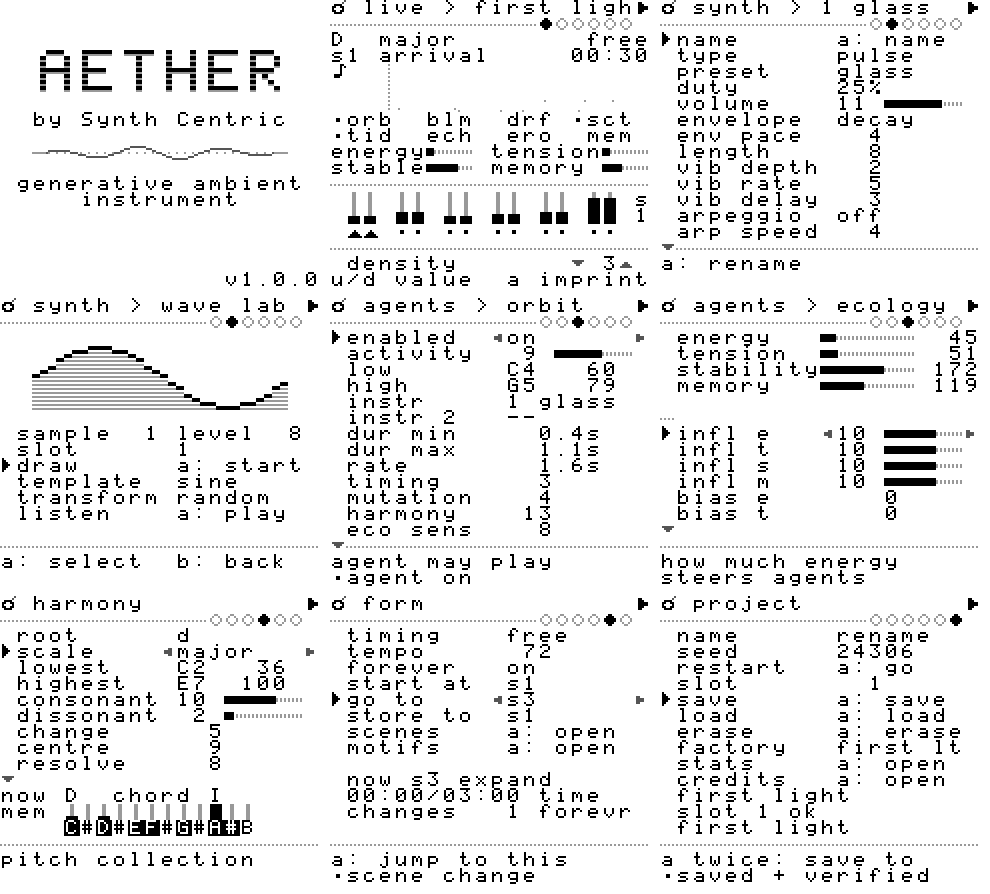
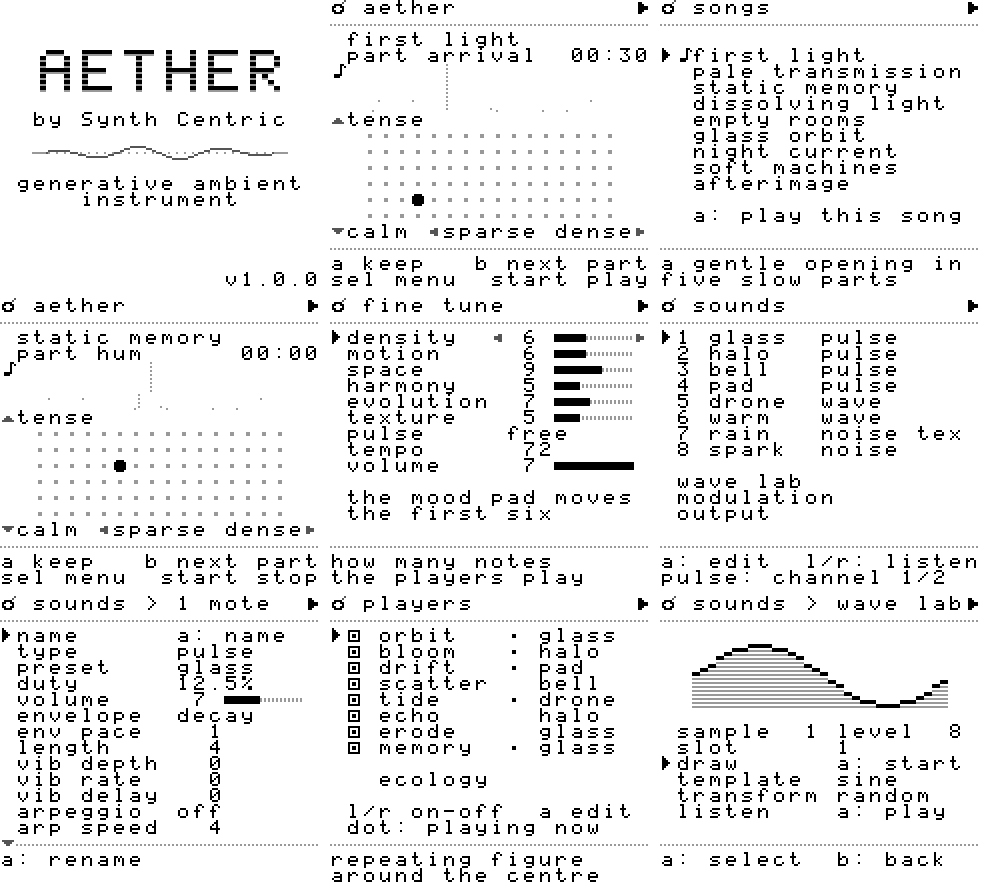
Emulator report and screenshots for the new interface
Claude-Session: https://claude.ai/code/session_01P79eML919qqdJXAUH1nTaM

diff --git a/docs/emulator_report.md b/docs/emulator_report.md
@@ -2,7 +2,7 @@
 
 Emulator: PyBoy 2.x (headless, sound emulated at 48000 Hz). ROM: `AETHER_by_Synth_Centric.gb`.
 
-Result: **54 / 54 checks passed**
+Result: **59 / 59 checks passed**
 
 | check | result | detail |
 |---|---|---|
@@ -13,38 +13,43 @@ Result: **54 / 54 checks passed**
 | title: no inverted / tabbed header | PASS |  |
 | title: 'generative ambient instrument' | PASS |  |
 | title: not playing before user input | PASS |  |
-| START on title -> LIVE page | PASS | ^ LIVE > FIRST LIGH~ |
+| START on title -> PLAY (mood pad) | PASS | ^ AETHER           ~ |
 | playback started | PASS |  |
 | VBlank audio clock advances 1/frame | PASS | 1800 |
 | generative events produced (30 s) | PASS | 30 |
-| audio output from DMG sound hardware | PASS | rms=0.90 |
-| LIVE shows project, macros, scene, hint | PASS |  DENSITY       \ 3[  |
+| audio output from DMG sound hardware | PASS | rms=0.91 |
+| PLAY shows song, part, mood pad and button legend | PASS | A KEEP   B NEXT PART |
 | IMPRINT capture (LIVE, A) stores a motif | PASS | len=3 msg=~IMPRINT 1 CAPTURED  |
 | IMPRINT confirmation shown | PASS | ~IMPRINT 1 CAPTURED  |
-| LIVE fader DENSITY editable (up/down) | PASS | 3->5 |
-| SELECT cycles the six pages | PASS |  |
+| mood pad: right = denser, up = more tension | PASS | density 3->5 harmony 3->6 |
+| B on PLAY moves to the next part | PASS | ~NEXT: EMERGE        |
+| SELECT opens the menu | PASS |  ~ SONGS             |
+| every menu item opens its page; B returns to the menu | PASS |  |
+| SELECT from the menu returns to the mood pad | PASS |  |
 | playback continues while navigating | PASS |  |
+| songs: description of the highlighted song | PASS | UNSTABLE TONES AND   |
+| songs: A loads the song and returns to the pad, playing | PASS |  STATIC MEMORY       |
 | instrument editor opens (PULSE LAB) | PASS |  TYPE      PULSE     |
 | help panel explains the selected parameter | PASS | START LOUDNESS       |
-| PULSE LAB: VOLUME edit changes instrument 1 | PASS | 11->10 |
+| PULSE LAB: VOLUME edit changes instrument 1 | PASS | 7->6 |
 | A auditions the edited instrument | PASS | 0-15                 |
-| WAVE LAB opens | PASS | ^ SYNTH > WAVE LAB ~ |
+| WAVE LAB opens | PASS | ^ SOUNDS > WAVE LAB~ |
 | WAVE LAB: D-pad draws sample 0 of wave 1 | PASS | 8->5 |
 | AGENTS: ORBIT enable toggles | PASS |  |
-| AGENTS: ORBIT activity editable | PASS | 9->8 |
-| ECOLOGY screen shows the four variables | PASS |  ENERGY   ~~~~~~  45 |
-| HARMONY: scale selection | PASS |  ROOT      D         |
-| B on a page's top level returns home to LIVE | PASS | ^ LIVE > FIRST LIGH~ |
+| AGENTS: ORBIT activity editable | PASS | 6->5 |
+| ECOLOGY screen shows the four variables | PASS |  ENERGY   ~~~~~~  94 |
+| HARMONY: scale selection | PASS |  ROOT      C#        |
+| B on an editor's top level returns to the menu | PASS | ^ MENU             ~ |
 | FORM: FIRST LIGHT runs in FREE time | PASS |  |
 | FORM: switch to CLOCKED | PASS |  |
 | CLOCKED mode generates events | PASS | 5 |
 | FORM: back to FREE | PASS |  |
 | FORM: manual scene change | PASS | scene=2 |
-| PROJECT: seed editable | PASS | 24301->24306 |
+| PROJECT: seed editable | PASS | 3900->3905 |
 | save asks for confirmation | PASS | ~A AGAIN: SAVE SLOT  |
 | save verified | PASS | ~SAVED + VERIFIED    |
 | slot 1 reports OK | PASS |  SLOT 1 OK           |
-| power cycle + LOAD restores the saved project | PASS | boot=24301 loaded=24306 saved=24306 |
+| power cycle + LOAD restores the saved project | PASS | boot=24301 loaded=3905 saved=3905 |
 | loaded name matches | PASS |  |
 | playback after load | PASS |  |
 | STOP silences all channels (no stuck notes) | PASS | rms=0.000 |
@@ -53,7 +58,7 @@ Result: **54 / 54 checks passed**
 | music continues throughout (events every 10-min window) | PASS | 0 |
 | long-form development (scene transitions) | PASS | 22 |
 | no event queue overflow | PASS | 0 |
-| main loop keeps up: generator + UI + driver < 1 frame on average | PASS | gen 28.7 + ui 52.3 + isr 18.7 lines of 154 |
+| main loop keeps up: generator + UI + driver < 1 frame on average | PASS | gen 27.2 + ui 32.1 + isr 18.7 lines of 154 |
 | VBlank driver: average cost < 15% of a frame | PASS | avg 18.7 lines of 154 |
 | VBlank driver: worst frame < 50% of a frame | PASS | max 55, p99 41 |
 | generator max lag within look-ahead | PASS | 0 |
@@ -73,9 +78,9 @@ Result: **54 / 54 checks passed**
  "isr_lines_max": 57,
  "isr_lines_avg": 18.7,
  "isr_lines_p99": 41,
- "gen_lines_avg": 28.7,
- "gen_lines_p99": 133,
- "ui_lines_avg": 52.3,
+ "gen_lines_avg": 27.2,
+ "gen_lines_p99": 134,
+ "ui_lines_avg": 32.1,
  "max_behind": 0,
  "dropped": 1357,
  "stolen": 482,
@@ -149,7 +154,7 @@ Result: **54 / 54 checks passed**
 ```
 {
  "gen_lines_max": 255,
- "ui_lines_max": 255,
+ "ui_lines_max": 254,
  "isr_lines_max": 56,
  "max_behind": 0,
  "events": 905,

diff --git a/docs/TESTING.md b/docs/TESTING.md
@@ -64,11 +64,12 @@ Checks (all passing in the final run, see `build/emu/report.md` after running):
 * Cartridge header: MBC5+RAM+BATTERY (0x1B), 32 KB SRAM, DMG mode; ROM size matches header.
 * Title: AETHER logo drawn, **"by Synth Centric" directly beneath it**, "generative ambient instrument", no tabbed/inverted header, not playing before input.
 * START → LIVE and playback; VBlank audio clock advances exactly 1/frame; events produced; audio output present.
-* LIVE layout; IMPRINT capture (A) stores a motif and confirms; fader editing with UP/DOWN.
-* SELECT cycles all six pages; playback continues while navigating.
+* PLAY layout (song, part, mood pad, button legend); IMPRINT capture (A) stores a motif and confirms; the mood pad changes density (right) and tension (up); B moves to the next part.
+* SELECT opens the menu; every menu item opens its page and B returns to the menu; SELECT returns to the pad; playback continues while navigating.
+* Songs: the highlighted song is described; A loads it and returns to the pad, playing.
 * SYNTH: instrument editor opens; **help panel explains the selected parameter**; VOLUME edit; A auditions; WAVE LAB opens; D-pad drawing changes the wavetable.
 * AGENTS: enable toggle; activity edit; ECOLOGY screen.
-* HARMONY: scale selection; **B returns home to LIVE**.
+* HARMONY: scale selection; **B on an editor's top level returns to the menu**.
 * FORM: FREE ↔ CLOCKED (CLOCKED generates events); manual scene change.
 * PROJECT: seed edit; save confirmation; verified save; slot OK.
 * **Power cycle with the battery RAM, LOAD restores the saved project** (seed and name).
